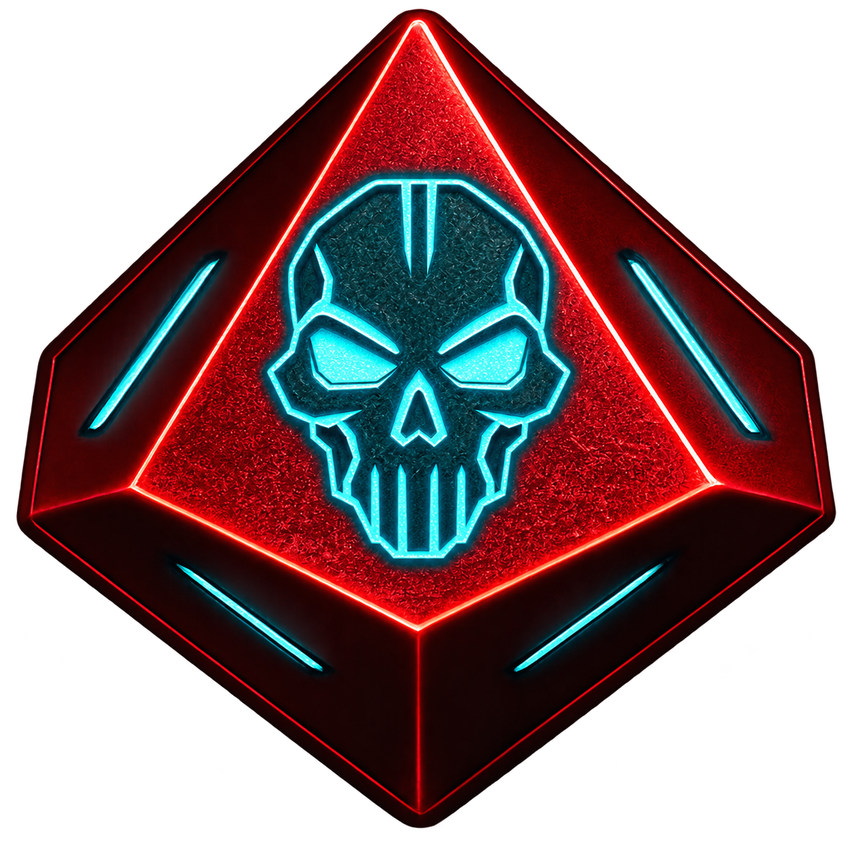
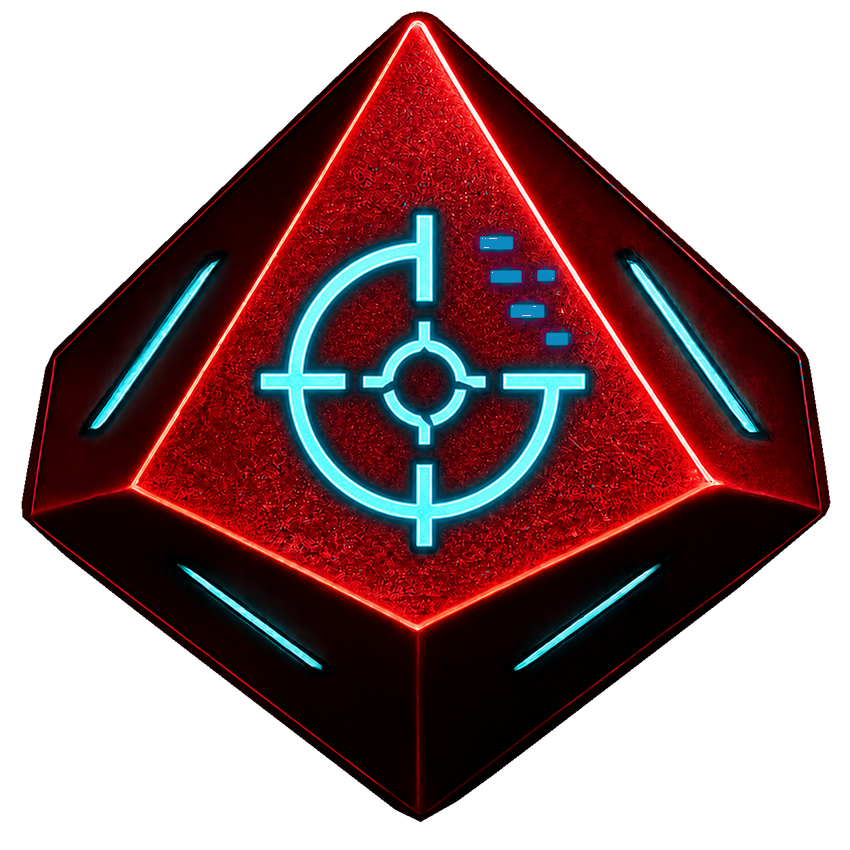
Replace fumble skull with cyber reticle

diff --git a/README.md b/README.md
@@ -25,13 +25,13 @@ https://github.com/GMPneuma/PneumaChatDice/releases
 | Standard D10, faces 1-10 | Purple with green accents |
 | Critical follow-up D10, faces 1-10 | Red with blue accents |
 | Critical success D10 | Red/blue flame |
-| Critical failure D10 | Red/blue skull |
+| Critical failure D10 | Red/blue broken targeting reticle |
 | Standard D6, faces 1-6 | Purple with green accents |
 | Critical-success D6 showing 6 | Red/blue PREEM 6 |
 
 ## Compatibility
 
-Version 0.2.2 targets:
+Version 0.2.3 targets:
 
 - Foundry Virtual Tabletop 11-12
 - Cyberpunk RED - CORE v0.88.2
